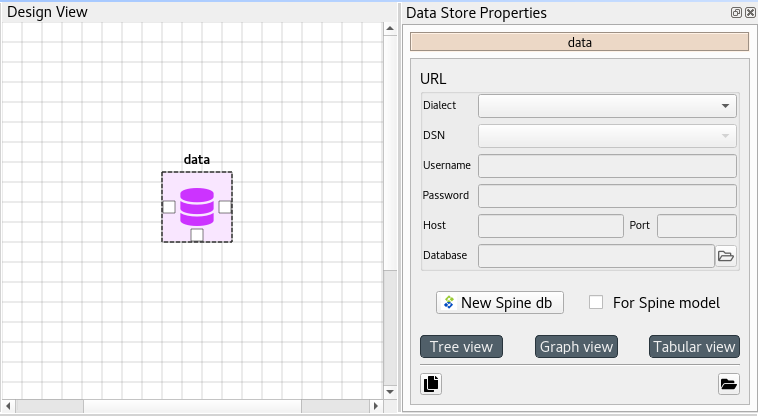
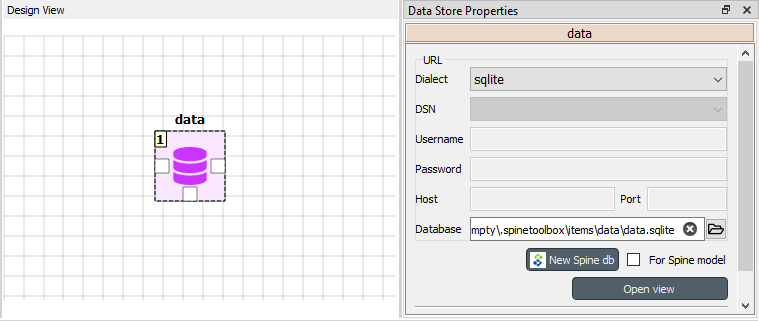
Update Data store view section in User Guide
The old page dated back to times when we had three physically separate
windows. Now they are all merged to a single Data store view and the
documentation should reflect that.

Re #601

Changed region(s): [[0.0, 0.0, 1.0, 0.9969], [0.1821, 0.3427, 0.3338, 0.6542]]

diff --git a/docs/source/data_store_view.rst b/docs/source/data_store_view.rst
@@ -1,0 +1,164 @@
+.. _Data store view:
+
+.. |tree_style| image:: ../../spinetoolbox/ui/resources/menu_icons/tree.svg
+   :width: 16
+.. |tabular_style| image:: ../../spinetoolbox/ui/resources/menu_icons/table.svg
+   :width: 16
+.. |graph_style| image:: ../../spinetoolbox/ui/resources/project-diagram.svg
+   :width: 16
+
+***************
+Data store view
+***************
+
+This section describes the different interfaces available in *Data Store view*
+for viewing and editing data in a Spine database.
+
+.. contents::
+   :local:
+
+To open Data store view, select a **Data Store** and click the *Open view* button
+in its *Properties*:
+
+.. image:: img/data_store_edit.png
+   :align: center
+
+Data store view consists of a number of dockable views that display the data in the database in different ways.
+Three pre-defined layouts or *styles* are available from the *View* menu:
+
+- In Tree style layout (|tree_style|) you can edit, add and remove all database entities and parameters
+- In Tabular style layout (|tabular_style|) you can display the the data in a pivot table
+- In Graph style layout (|graph_style|) you can view the structure of classes, objects and relationships
+  in a graph representation
+
+Commit/Rollback changes
+-----------------------
+
+Changes are not immediately saved to the database. They need to be committed separately.
+To do that select **Session -> Commit** from the menu bar, enter a commit message and press **Commit**.
+Any changes made in the Data store view will be saved into the database.
+
+To undo any changes since the last commit, select **Session -> Rollback** from the menu bar.
+
+Tree style
+----------
+
+The **Tree style** layout is useful to get an overview of the data and the relationships
+within a Spine database:
+
+.. image:: img/tree_style.png
+   :align: center
+
+In the default **Tree style** layout the left side of the Data store view is occupied by two tree views which
+display the different object and relationship classes, with their objects and relationships in a hierarchical tree.
+These and the other views allow you to add, edit, and delete object classes, relationship classes, objects,
+relationships, parameters and parameter values.
+
+The interface has five main components:
+
+1. *Object tree*, where you can expand and collapse the different levels of the hierarchy.
+   It also acts as a filtering tool for the two table components, so that only items selected in the
+   *Object tree* are shown in the *Parameter tables*.
+2. *Relationship tree*, similar to *Object tree* but for relationships.
+3. *Object parameter value* table, where you can view, add, edit, and delete object parameter definitions and values.
+4. *Relationship parameter value* table, where you can view, add, edit, and delete relationship parameter
+   definitions and values.
+5. *Parameter value list* allows you to create value lists that can be associated to parameter definitions.
+
+Editing items
+~~~~~~~~~~~~~
+
+To add object classes, relationship classes, objects or relationships you can use the **Edit** menu from the main
+menu bar, as well as the context menu from the *Object tree*.
+In the dialog that pops up you can enter new items by typing their names or pasting data from the clipboard.
+
+.. image:: img/tree_view_add_objects.png
+   :align: center
+
+To delete an item, you can again use the **Edit** menu from the main
+menu bar or the item's context menu from the *Object tree*.
+
+.. image:: img/tree_view_context_menu.png
+   :align: center
+
+Editing items is done following a similar procedure.
+
+Viewing parameter definitions and values
+~~~~~~~~~~~~~~~~~~~~~~~~~~~~~~~~~~~~~~~~
+
+In the *Parameter tables*, you can switch between viewing parameter definitions or values by using the tabs
+in the lower left corner.
+
+You can also (further) filter the tables by clicking on the column headers.
+
+
+Editing parameters definitions and values
+~~~~~~~~~~~~~~~~~~~~~~~~~~~~~~~~~~~~~~~~~
+
+To add new parameter definitions or values you can directly do it in the last row of each table.
+The tables also support pasting values from the clipboard.
+
+Tabular style
+-------------
+
+The **Tabular style** layout is used to display and edit data in a Spine database via a table-like interface.
+The interface lets you filter and pivot the data for exploration and editing.
+
+.. image:: img/tabular_style.png
+   :align: center
+
+The interface has four main components:
+
+1. *Object tree*, where you can expand and collapse the different levels of the hierarchy.
+   The item selected in the *Object tree* is shown in the *Pivot table*.
+2. *Relationship tree*, similar to *Object tree* but for relationships.
+3. *Pivot table*, where you can transform the data view by dragging and dropping the header blocks.
+   You can choose, e.g., which items go into rows and which into columns.
+4. *Frozen table*: dragging header blocks here freezes the selected items in the *Pivot table*.
+
+From the drop-down *Input type* list at the top of the Pivot table,
+you can select two different input types:
+
+* *Parameter value*: display all objects (or relationships), as well as all parameters and parameter values
+  for the selected object (or relationship) class.
+* *Relationship*: display only the objects (or relationships) for the selected object (or relationship) class.
+
+Pivoting and filtering data
+~~~~~~~~~~~~~~~~~~~~~~~~~~~
+
+You can transform (pivot) the data view by dragging header blocks across the *Pivot table* and to *Frozen table*:
+
+.. image:: img/tabular_view_pivot.png
+   :align: center
+
+When you drag a header block in Pivot table in a column header position like the 'node' header below,
+items under that header are displayed in that column of the Pivot table so there is a unique row for each item.
+
+.. image:: img/pivot_table_column_header.png
+   :align: center
+
+When you drag a header block in Pivot table in a row header position like the 'direction' header below,
+items under that header are displayed in that row of the Pivot table.
+
+.. image:: img/pivot_table_row_header.png
+   :align: center
+
+When you drag a header block to the *Frozen table* all items in under the header are excluded from the Pivot table
+and shown in the Frozen table instead.
+The Pivot table is then filtered by the selected item in the Frozen table.
+
+.. image:: img/pivot_table_frozen_header.png
+   :align: center
+
+To filter a specific item you can use the filter buttons in the header blocks.
+It is possible to apply multiple filters at the same time.
+
+Graph style
+-----------
+
+The **Graph style** layout is used to visualize the Spine database structure into a graph.
+Here you can select objects to see how they are related.
+You can also view parameter definition and values same as in the **Tree style** layout.
+
+.. image:: img/graph_style.png
+   :align: center

diff --git a/docs/source/project_items.rst b/docs/source/project_items.rst
@@ -36,7 +36,7 @@ Data Store |data_store|
 
 A Data store item represents a connection to a Spine model database.
 Currently, the item supports sqlite and mysql dialects.
-The database can be accessed and modified using :ref:`data store views <Data store views>`
+The database can be accessed and modified in :ref:`Data store view <Data store view>`
 available from the item's properties or from a right-click context menu.
 
 Data Connection |data_connection|
@@ -56,7 +56,7 @@ View |view|
 -----------
 
 A View item is meant for inspecting data from multiple sources using the
-:ref:`data store views <Data store views>`.
+:ref:`Data store view <Data store view>`.
 Note that the data is opened in read-only mode so modifications are not possible from the View item.
 
 .. note::

diff --git a/docs/source/index.rst b/docs/source/index.rst
@@ -16,13 +16,12 @@ please check the :ref:`Terminology` section. If you want to contribute to this p
    :caption: Contents:
 
    getting_started
-   tutorials
    main_window
    project_items
    tool_specification_editor
    executing_tools
    settings
-   data_store_views
+   data_store_view
    plotting
    parameter_value_editor
    data_import_export
